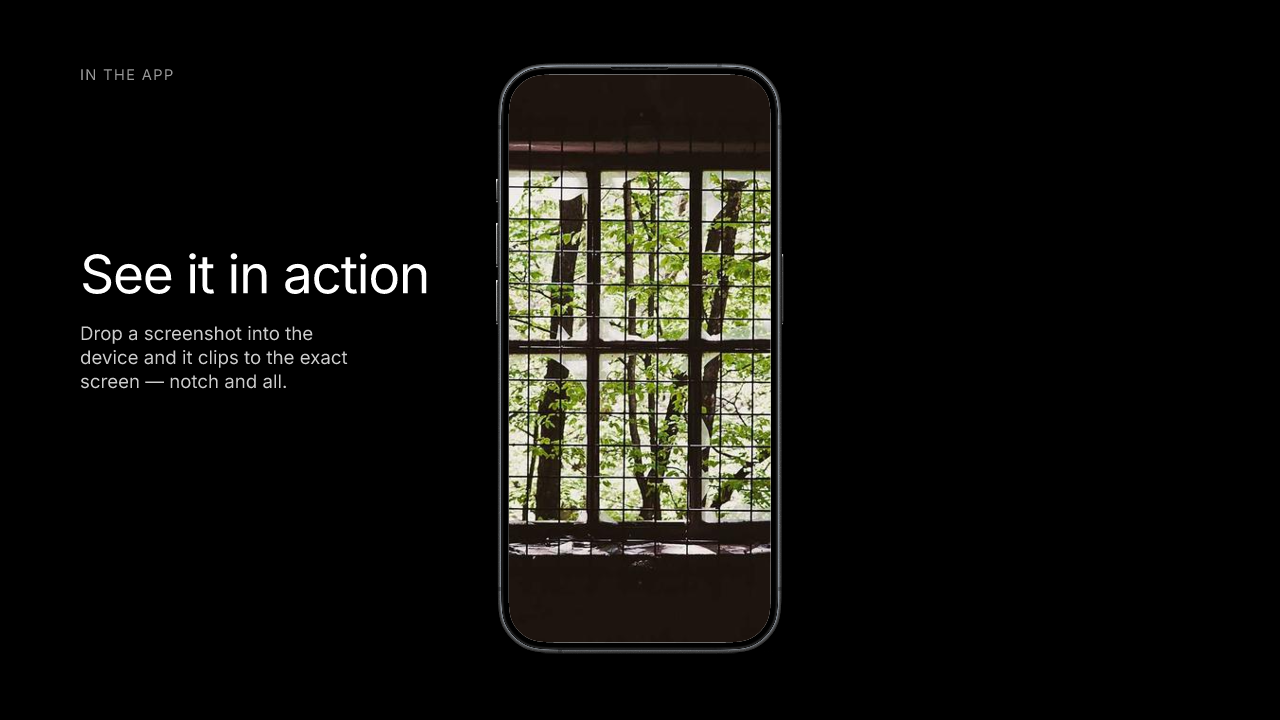
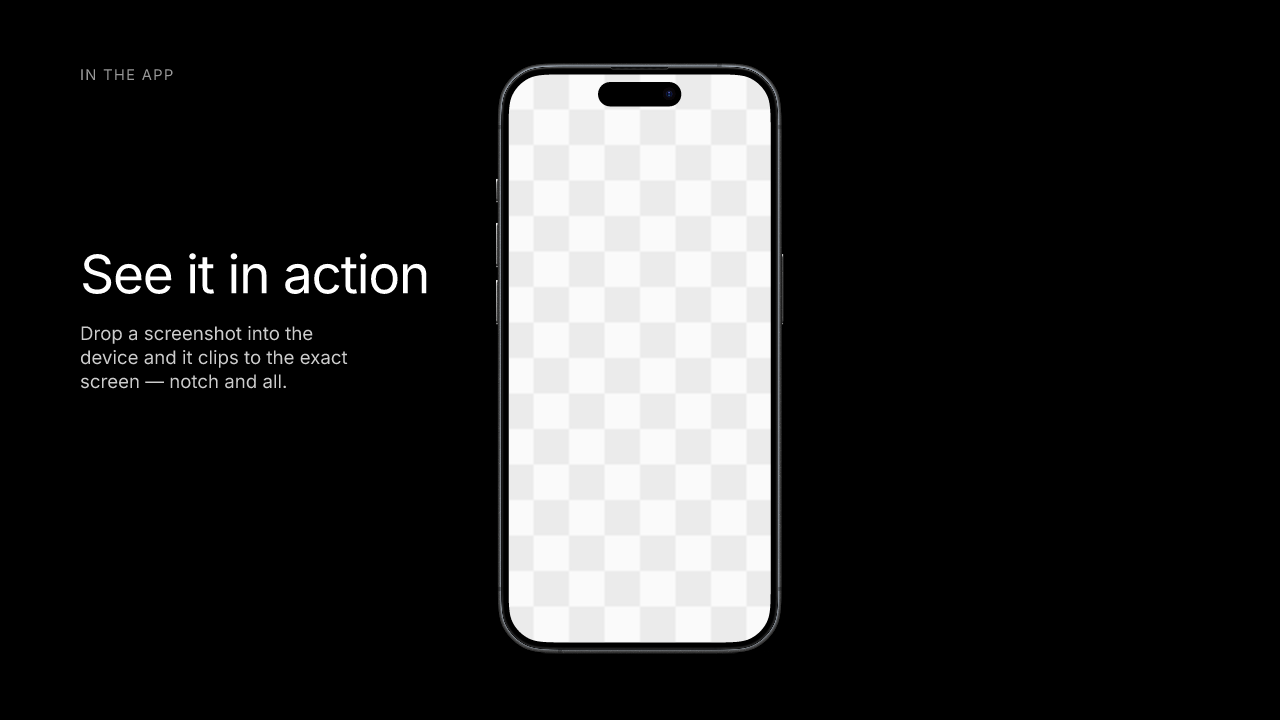
docs(portfolio): black phone mockup shows empty screen (user fills)

Changed region(s): [[0.375, 0.0917, 0.625, 0.9167]]

diff --git a/docs/portfolio.html b/docs/portfolio.html
@@ -256,7 +256,7 @@ layout novelty &lt; 6 → reject</span></p></div>
     <p class="lead">목업(아이폰·맥북)은 <b>틀+빈 화면 한 세트의 재사용 자산</b>으로 추출된다. 합성 슬라이드는 프레임을 그대로 스탬프하고, 화면은 정확한 모양(둥근 모서리·노치)으로 clip된 빈 자리로 둔다 — 이미지는 우리가 만들지 않고 <b>사용자가 직접 끼운다</b>. 배치(개수·정렬)는 한 슬라이드의 관계 그래프에서 가져온다(예: 3-up 폰 행). black·colorful 두 테마에서 <b>11개 목업 자산</b>(iPhone·MacBook 등)을 추출.</p>
     <div class="grid g3">
       <figure><img class="shot" src="assets/mk-phone.png" alt="colorful phone mockup"><figcaption><span class="tag">colorful · phone</span> 텍스트 좌측 + 아이폰 우측, 테마 장식(주황 블롭) 배경</figcaption></figure>
-      <figure><img class="shot" src="assets/mk-fill.png" alt="filled screen"><figcaption><span class="tag">black · screen clip</span> 사용자 이미지가 화면 모양(노치 포함)에 정확히 clip</figcaption></figure>
+      <figure><img class="shot" src="assets/mk-fill.png" alt="phone empty screen"><figcaption><span class="tag">black · phone</span> 빈 화면(노치 모양 그대로) — 사용자가 채움</figcaption></figure>
       <figure><img class="shot" src="assets/mk-laptop.png" alt="laptop mockup"><figcaption><span class="tag">black · laptop</span> MacBook 프레임 + 빈 화면(사용자가 채움)</figcaption></figure>
     </div>
   </section>